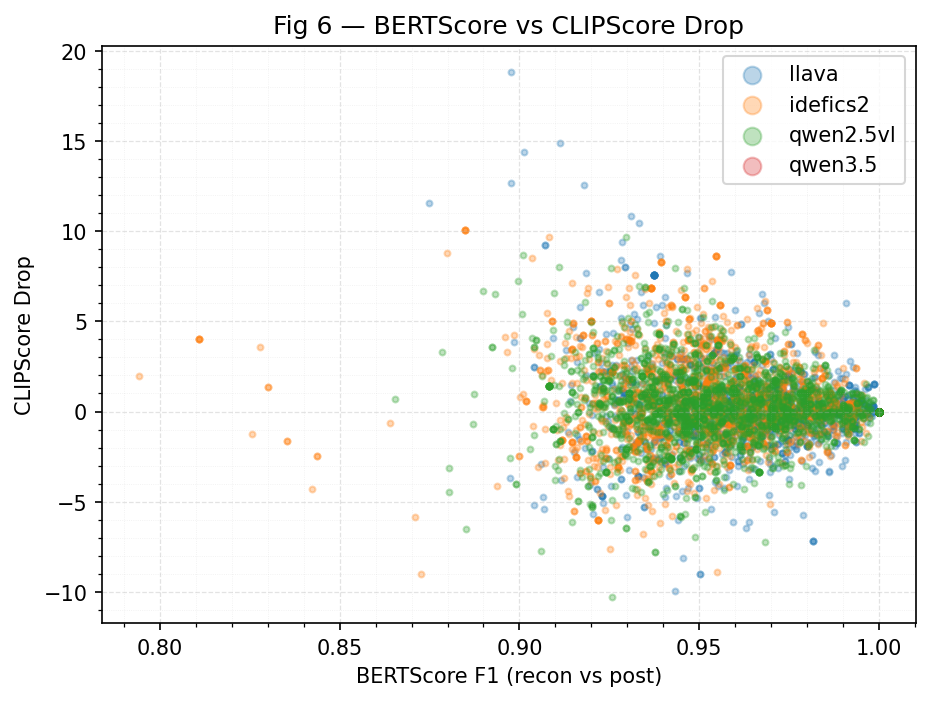
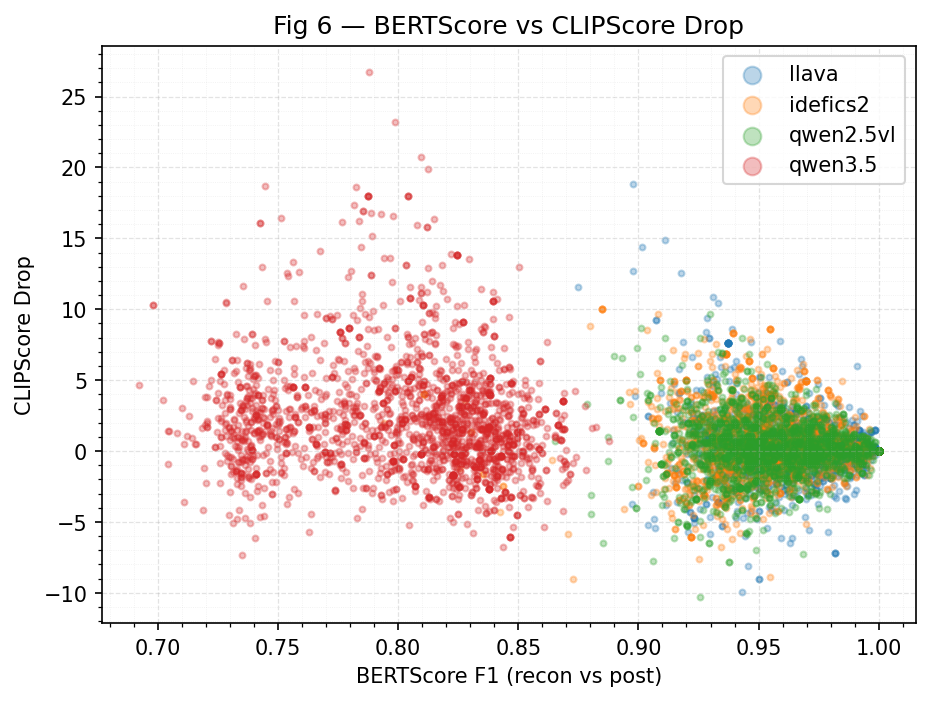
feat: add some result

diff --git a/plot_caption_recon.py b/plot_caption_recon.py
@@ -30,6 +30,12 @@ def load_all():
         p = DATA_DIR / m / "caption_original_vs_recon.csv"
         df = pd.read_csv(p)
         df["model"] = m
+        if "bertscore_recon_vs_post_f1" not in df.columns and "bertscore_f1" in df.columns:
+            df = df.rename(columns={"bertscore_f1": "bertscore_recon_vs_post_f1"})
+        if "bertscore_post_vs_gt_f1" in df.columns and "bertscore_recon_vs_gt_f1" in df.columns:
+            df["bertscore_drop"] = df["bertscore_post_vs_gt_f1"] - df["bertscore_recon_vs_gt_f1"]
+        else:
+            df["bertscore_drop"] = float("nan")
         dfs.append(df)
     return pd.concat(dfs, ignore_index=True)
 
@@ -183,7 +189,66 @@ def fig8(df):
     ax.set_title("Fig 8 — Cosine vs BERTScore")
     ax.legend(markerscale=3)
     add_scale_lines(ax)
-    save(fig, "fig08_cosine_vs_bertscore")
+    for name in ["fig08_cosine_vs_bertscore", "fig08_cosine_vs_bert"]:
+        path = OUT_DIR / f"{name}.png"
+        fig.savefig(path, dpi=150, bbox_inches="tight")
+        print(f"  saved {path}")
+    plt.close(fig)
+
+
+def fig9(df):
+    """BERTScore drop violin per model (NaN = no GT ref, e.g. qwen3.5)."""
+    fig, ax = plt.subplots(figsize=(7, 5))
+    data, positions = [], []
+    for i, m in enumerate(MODELS):
+        vals = df[df["model"] == m]["bertscore_drop"].dropna().values
+        if len(vals) > 0:
+            data.append(vals)
+            positions.append(i)
+    if data:
+        parts = ax.violinplot(data, positions=positions, showmedians=True)
+        for pc, pos in zip(parts["bodies"], positions):
+            pc.set_facecolor(MODEL_COLORS[MODELS[pos]])
+            pc.set_alpha(0.7)
+    ax.set_xticks(range(len(MODELS)))
+    ax.set_xticklabels(MODELS)
+    ax.set_ylabel("BERTScore Drop (post_gt − recon_gt)")
+    ax.set_title("Fig 9 — BERTScore Drop Distribution per Model")
+    ax.axhline(0, color="black", linewidth=0.8, linestyle="--")
+    add_scale_lines(ax)
+    save(fig, "fig09_bertscore_drop_violin")
+
+
+def fig10(df):
+    """Cosine vs BERTScore drop scatter, all models overlaid."""
+    fig, ax = plt.subplots(figsize=(7, 5))
+    for m in MODELS:
+        sub = df[df["model"] == m].dropna(subset=["bertscore_drop"])
+        ax.scatter(sub["reproj_cosine_recon"], sub["bertscore_drop"],
+                   alpha=0.3, s=8, color=MODEL_COLORS[m], label=m)
+    ax.set_xlabel("Reproj Cosine (recon)")
+    ax.set_ylabel("BERTScore Drop")
+    ax.set_title("Fig 10 — Cosine vs BERTScore Drop")
+    ax.axhline(0, color="black", linewidth=0.8, linestyle="--")
+    ax.legend(markerscale=3)
+    add_scale_lines(ax)
+    save(fig, "fig10_cosine_vs_bertscore_drop")
+
+
+def fig11(df):
+    """CLIPScore drop vs BERTScore drop scatter."""
+    fig, ax = plt.subplots(figsize=(7, 5))
+    for m in MODELS:
+        sub = df[df["model"] == m].dropna(subset=["bertscore_drop"])
+        ax.scatter(sub["clipscore_drop"], sub["bertscore_drop"],
+                   alpha=0.3, s=8, color=MODEL_COLORS[m], label=m)
+    ax.set_xlabel("CLIPScore Drop")
+    ax.set_ylabel("BERTScore Drop")
+    ax.set_title("Fig 11 — CLIPScore Drop vs BERTScore Drop")
+    ax.axhline(0, color="black", linewidth=0.8, linestyle="--")
+    ax.legend(markerscale=3)
+    add_scale_lines(ax)
+    save(fig, "fig11_clipscore_drop_vs_bertscore_drop")
 
 
 def fig16(df):
@@ -278,6 +343,9 @@ if __name__ == "__main__":
     fig6(df)
     fig7(df)
     fig8(df)
+    fig9(df)
+    fig10(df)
+    fig11(df)
     fig16(df)
     fig17(df)
     fig18(df)

diff --git a/summary_stats.py b/summary_stats.py
@@ -24,6 +24,7 @@ DEFAULT_COLS = [
     "reproj_cosine_recon",
     "reproj_mse_recon",
     "bertscore_recon_vs_post_f1",
+    "bertscore_drop",
 ]
 
 
@@ -40,6 +41,8 @@ def load_model(data_dir: Path, model: str) -> pd.DataFrame | None:
             "bertscore_precision": "bertscore_recon_vs_post_precision",
             "bertscore_recall":    "bertscore_recon_vs_post_recall",
         })
+    if "bertscore_post_vs_gt_f1" in df.columns and "bertscore_recon_vs_gt_f1" in df.columns:
+        df["bertscore_drop"] = df["bertscore_post_vs_gt_f1"] - df["bertscore_recon_vs_gt_f1"]
     return df
 
 
